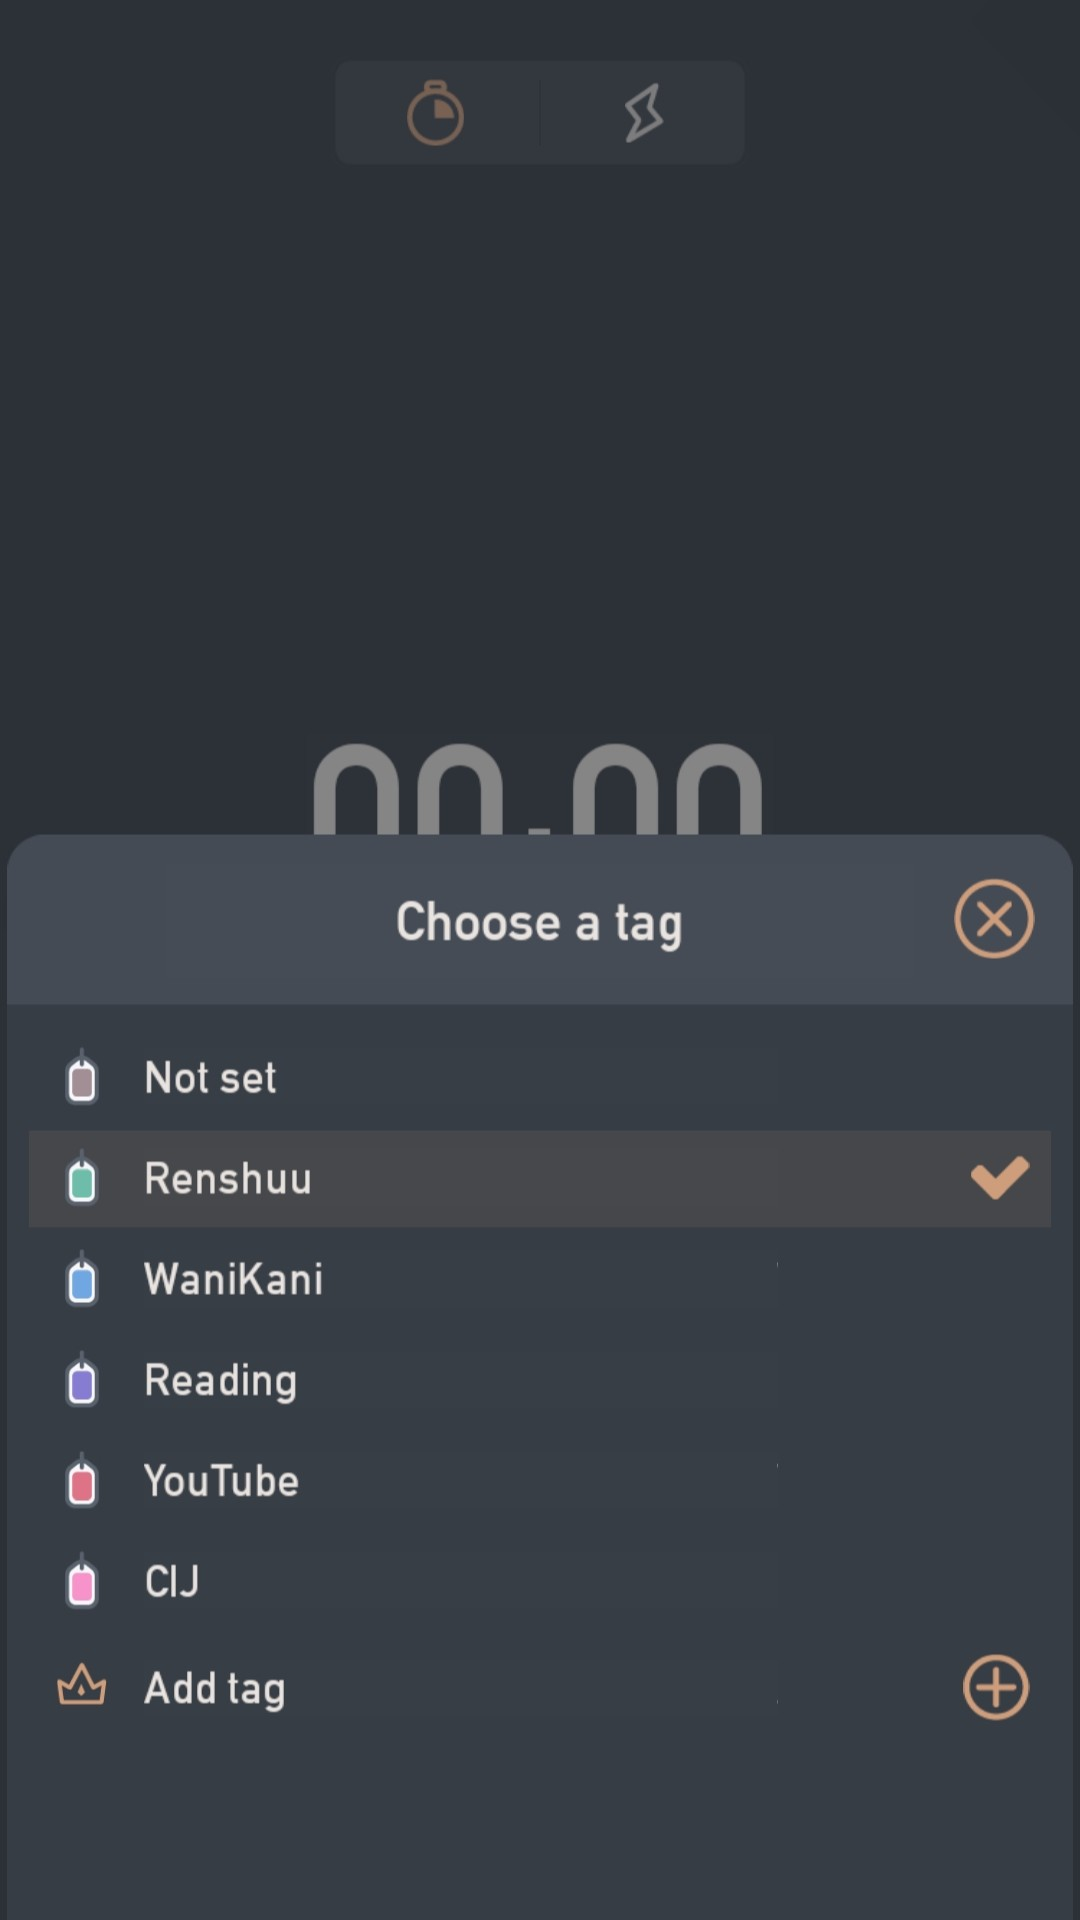
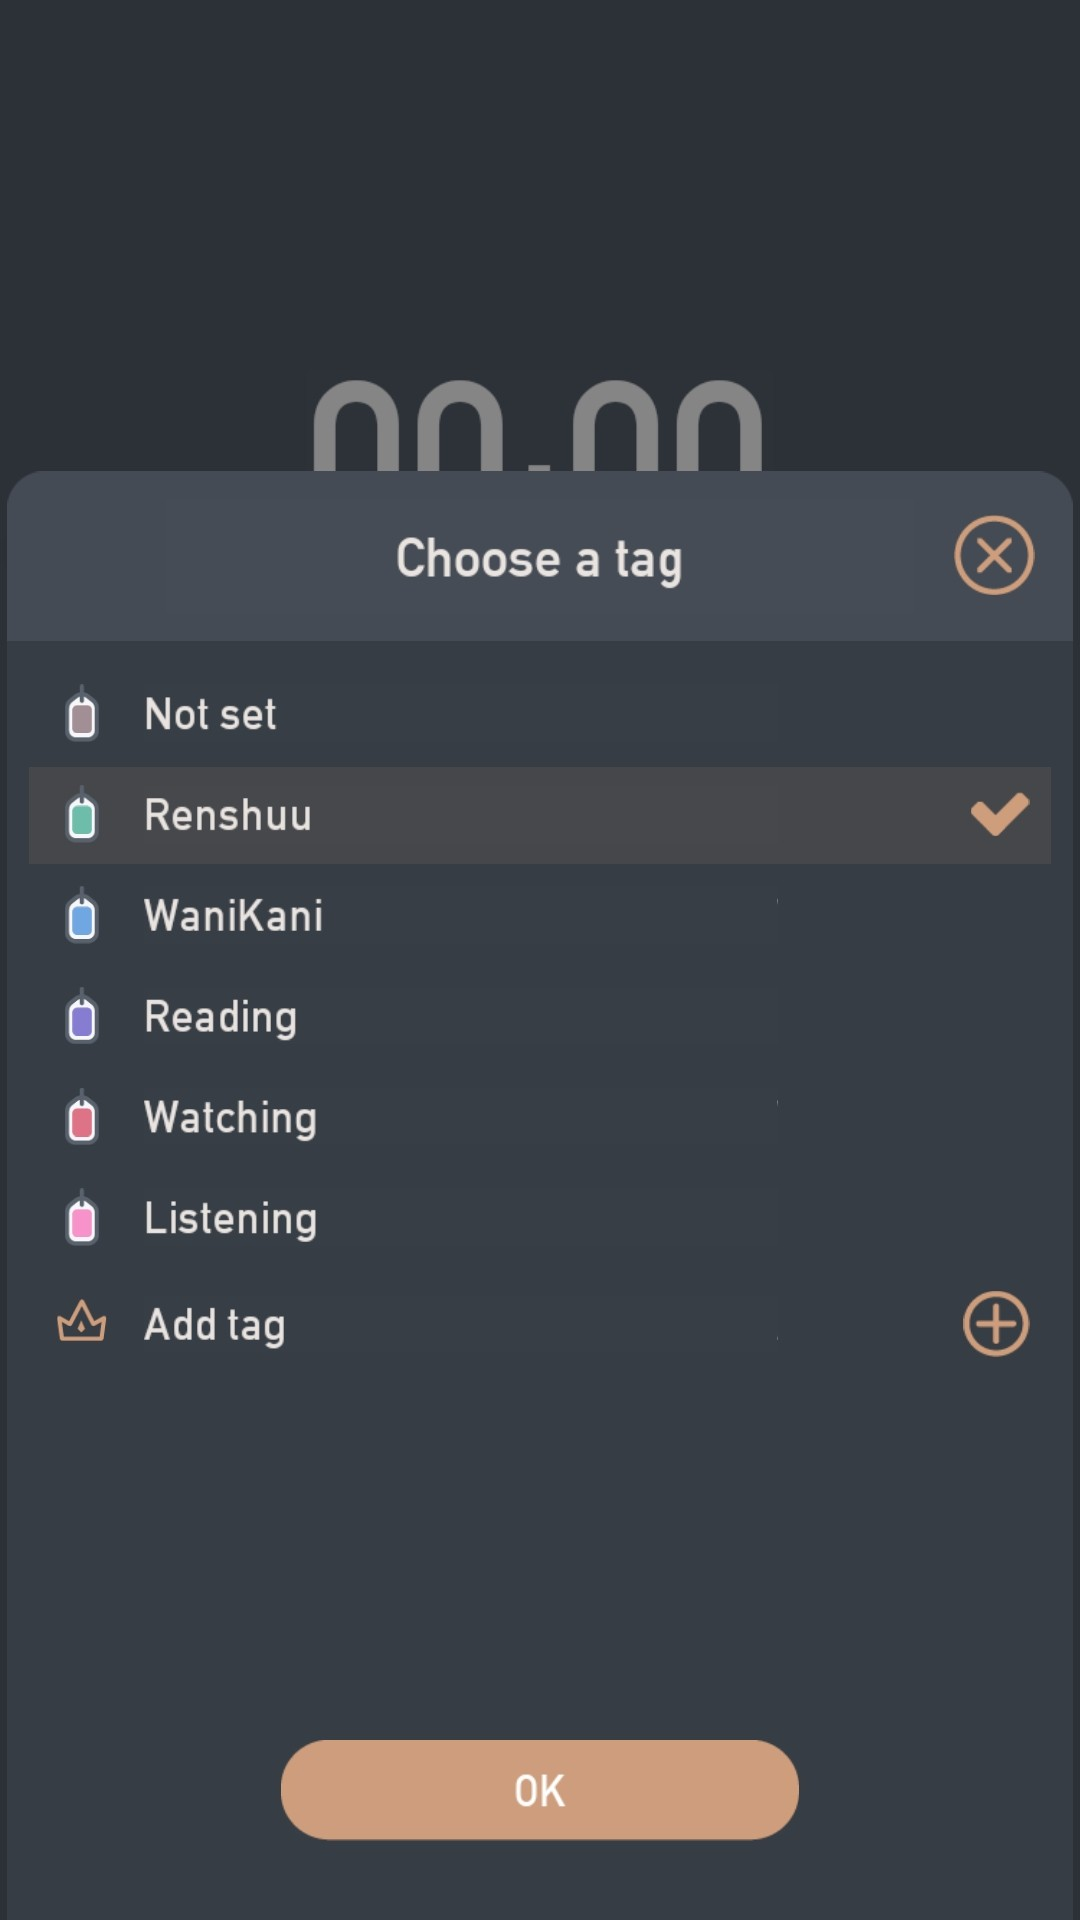
Add back to top widget and update the 75 fluent rules

diff --git a/src/styles/global.css b/src/styles/global.css
@@ -89,3 +89,21 @@ html.dark .code-copy-button.copied {
 .code-copy-button.copied .icon-check {
   --at-apply: 'op-100';
 }
+
+/* Back to Top Button >>>>>>>>>>>>>>>>>>>>>>>>>>>>>>>>>>>>>>>>>>>>>>>>>>>>>>>>>>>>>>>>>>>>>>>>>>>>>>>>>>>>>>>>>>>>>>>>>>>>>>>>>>>>>>> */
+.back-to-top {
+  --at-apply: 'fixed z-99 grid aspect-square w-11 cursor-pointer place-items-center rounded-full uno-round-border lg:hidden';
+  --at-apply: 'border-secondary/15 bg-background c-secondary/70 invisible translate-y-2 op-0 hover:(border-primary/15 c-primary)';
+  right: min(7.25vw, 3.731rem);
+  bottom: max(1.5rem, env(safe-area-inset-bottom, 0px));
+  transition: opacity 0.2s ease-out, transform 0.2s ease-out, visibility 0.2s ease-out, color 0.15s ease-out, border-color 0.15s ease-out;
+}
+.back-to-top.is-visible {
+  --at-apply: 'visible translate-y-0 op-100';
+}
+.back-to-top:active {
+  --at-apply: 'scale-90';
+}
+.back-to-top svg {
+  --at-apply: 'aspect-square w-1/2';
+}

diff --git a/src/content/posts/japanese/75 fluent Japanese challenge.md b/src/content/posts/japanese/75 fluent Japanese challenge.md
@@ -7,6 +7,7 @@ tags:
   - Japanese
   - Japanese language challenges
   - 75 fluent
+  - Japanese resources
 draft: false
 pin: 0
 toc: true
@@ -26,35 +27,44 @@ I’ve heard of the 75 hard before, but I never paid attention to it. After all,
 
 ::youtube{id=x2vK4fWDurc}
 
+Here’s another useful, more updated video:
+
+::youtube{id=OP7IwpHG3KM}
+
 Do check out these videos for more context on the challenge.
 
 ## Rules of 75 fluent
 The challenge is pretty straightforward. It consists of 6 daily tasks you need to do for 75 days: 
-1. 60-minute language study
+1. 60 minutes of study[^1]
 2. Read 5 pages
-3. Watch something
+3. 1 podcast episode or YouTube video
 4. Journal
 5. 5 minutes of speaking
 6. Track your study
+7. Immerse yourself as much as possible
+
+> [!TIP]
+> Logan also created the [75-Fluent tracker](https://75-fluent.com/) to streamline the tracking process. I personally won’t be using it because I want some flexibility (the daily tasks on her tracker can’t be edited), but I think it’s a pretty cool resource if you’re doing the challenge as is!
 
 ## Revised rules of 75 fluent
 The original rules of the challenge don’t work for me because I’m not producing anything in Japanese yet. I’m still in the early stages of my study—consuming content, building my vocabulary, and familiarizing myself with grammar points.
 
 So, I decided to tweak the rules to make it work for my needs:
 
-1. 60-minute language study
+1. 60 minutes of study
 2. <span style="color: oklch(0.58 0.09 150); font-weight: 700;">Read for 10 minutes</span>
-3. Watch something
+3. 1 podcast episode or YouTube video
 4. <span style="color: oklch(0.58 0.09 150); font-weight: 700;">Renshuu</span>
 5. <span style="color: oklch(0.58 0.09 150); font-weight: 700;">WaniKani</span>
 6. Track your study
+7. Immerse yourself as much as possible
 
-### Changes I made
-- I’m not ready to read books yet, so I updated “Read 5 pages” to “Read for 10 minutes”. It makes perfect sense for my situation since I use various apps to read stuff in Japanese.
+### What I changed
+- I’m not advanced enough to read books, so I updated “Read 5 pages” to “Read for 10 minutes”. It makes perfect sense for my situation since I use various apps to read stuff in Japanese.[^2]
 - I added “Renshuu” and “WaniKani” because they’re currently my main resources for active study. But since I took a break from Japanese for several weeks, my backlog is still… massive. So, right now, my priority is to just catch up on my reviews. I don’t want to be too strict with myself on how many words or how much time I should study per day.
 
-## How I’m tracking my studies
-I’m using an app called [Striving](https://play.google.com/store/apps/details?id=com.shikudo.focusapp.google&hl=en) to track my study time across different areas of the challenge.[^1] Here’s my setup:
+## How I track my progress
+I’m using an app called [Striving](https://play.google.com/store/apps/details?id=com.shikudo.focusapp.google&hl=en) to track my study time across different areas of the challenge.[^3] Here’s my setup:
 
 :::gallery
 ![I added the 5 most important tags I need to track for the challenge.](../_images/75-fluent-01/75-fluent-1.jpg)
@@ -68,7 +78,7 @@ Meanwhile, I’m using [Loop Habit Tracker](https://loophabits.org/) to track th
 Both apps have premium options, but the free versions are good enough for my use case.
 
 ## What to expect
-I plan to share progress updates every 25 days for accountability:[^2]
+I plan to share progress updates every 25 days for accountability:[^4]
 - __25th day update:__ July 24, 2026 (Friday) 
 - __50th day update:__ August 18, 2026 (Tuesday)
 - __75th day update:__ September 11, 2026 (Friday)
@@ -79,10 +89,12 @@ I’m not sure what to expect. It’s my first time doing such a major challenge
 
 I know I won’t always hit 60 minutes, especially when I’m out hiking or on my little adventures, but I’ll do my best.
 
-I’m giving myself a lot of flexibility to fail, start over, or update the challenge rules as I see fit.[^3]
+I’m giving myself a lot of flexibility to fail, start over, or update the challenge rules as I see fit.[^5]
 
 Anyway, that’s it for now! I’ll see you in 25 days.
 
-[^1]: [Renshuu](https://app.renshuu.org/) and [WaniKani](https://www.wanikani.com/) are for grammar and vocabulary. Reading is self-explanatory. YouTube and [CIJ](https://cijapanese.com/) (Comprehensible Japanese) are for watching and listening.
-[^2]: I’ll update the list with the links as I publish my progress update posts.
-[^3]: I’m also allowing myself to quit if the challenge isn’t working for me.
+[^1]: You can do the 60 minutes of study _on top_ of the other tasks or you can sum up your time in the other tasks so you get a total of 60 minutes.
+[^2]: For reading, I’m using a mix of [CIJ](https://cijapanese.com/) (Comprehensible Japanese), [Todaii](https://japanese.todaiinews.com/en), [Yomu Yomu](https://yomuyomu.app/), and [HelloStory](https://play.google.com/store/apps/details?id=com.hellostory&hl=en).
+[^3]: [Renshuu](https://app.renshuu.org/) and [WaniKani](https://www.wanikani.com/) are for grammar and vocabulary. Reading is self-explanatory (check the previous note). YouTube and CIJ are for watching and active listening. I also use Podcast Republic to listen to podcasts. Lastly, immersion can be watching an anime or series, listening to Japanese music, or just listening passively. I don’t track my hours for the “immersion” tag.
+[^4]: I’ll update the list with the links as I publish my progress update posts.
+[^5]: I’m also allowing myself to quit if the challenge isn’t working for me.